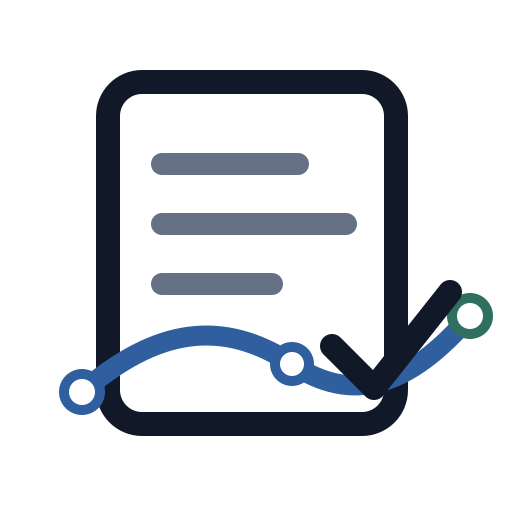
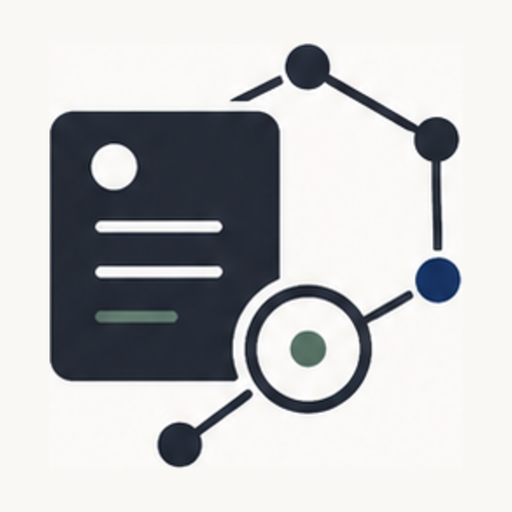
Use generated ref-verify identity assets

diff --git a/README.md b/README.md
@@ -1,6 +1,6 @@
 <div align="center">
 
-<img src=".github/assets/ref-verify-mark.svg" alt="ref-verify mark" width="96">
+<img src=".github/assets/ref-verify-mark-512.png" alt="ref-verify mark" width="96">
 
 </div>
 